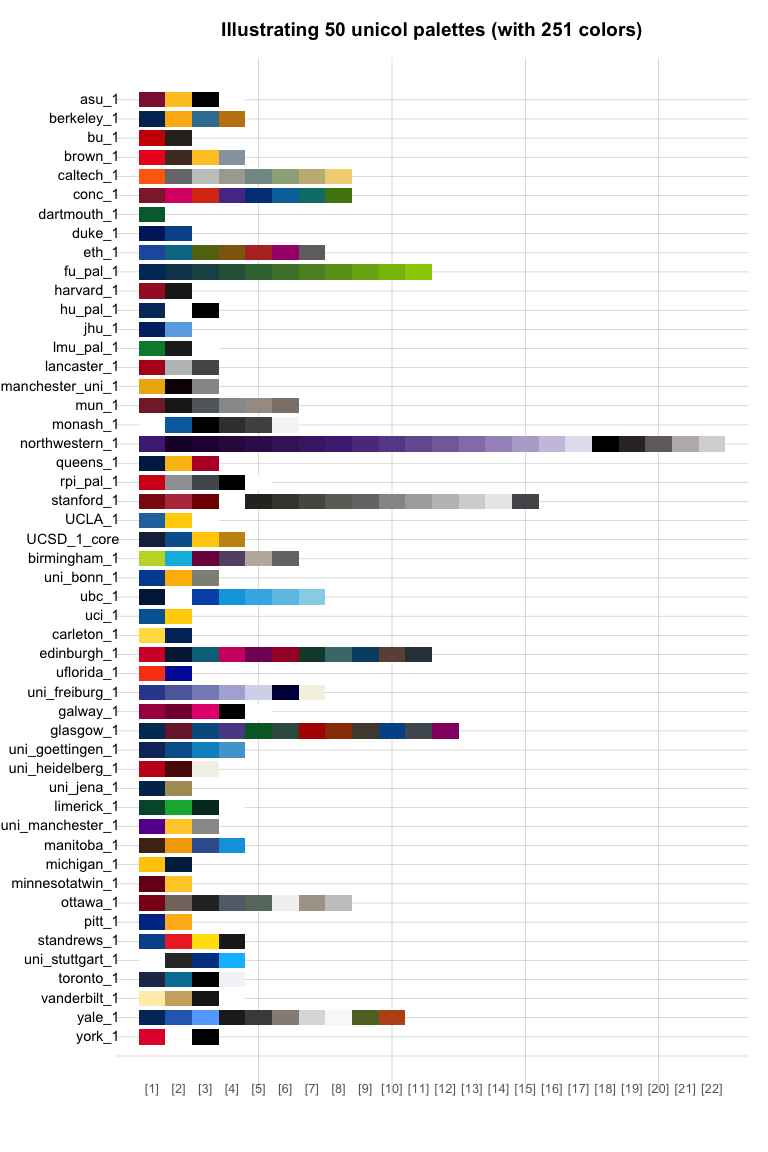
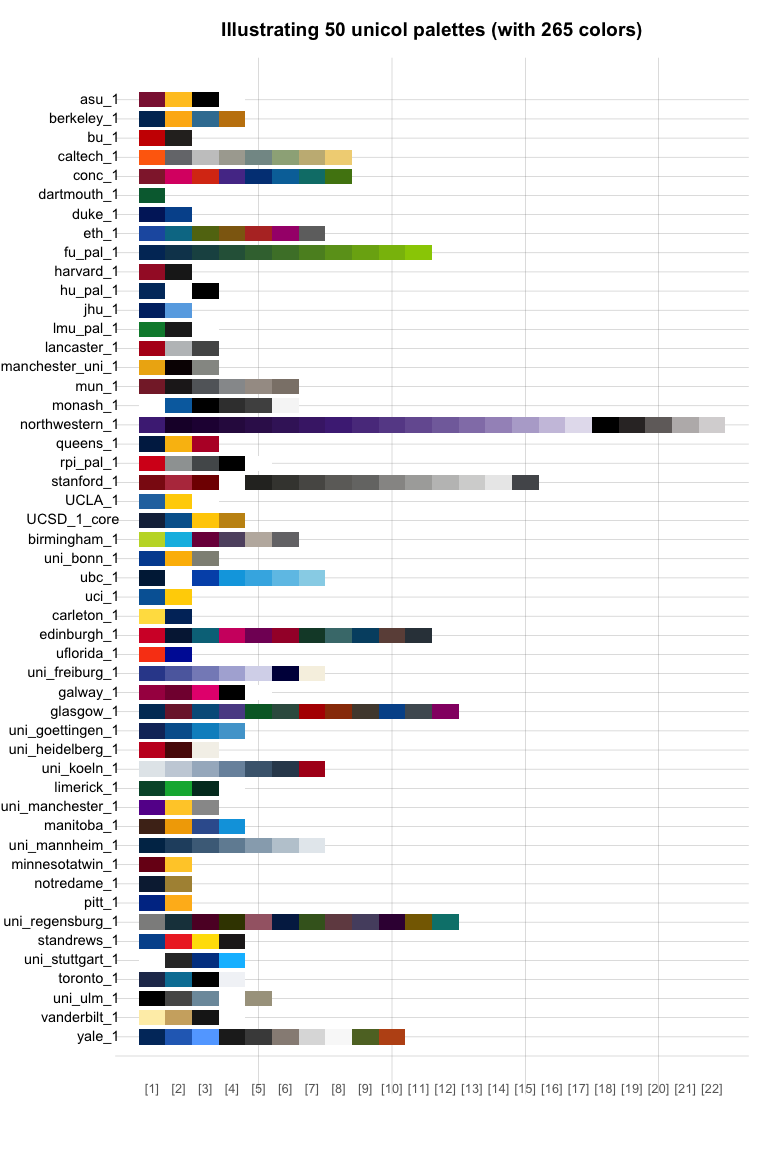
update README

Changed region(s): [[0.0, 0.125, 0.9375, 0.8125], [0.0625, 0.8438, 0.5312, 0.9062], [0.7188, 0.0, 0.75, 0.0312]]

diff --git a/README.md b/README.md
@@ -79,8 +79,8 @@ library(unikn)   # for color functions
 
 ## Contents
 
-The **unicol** package currently provides **202 color palettes** from
-**86 institutions**.
+The **unicol** package currently provides **204 color palettes** from
+**87 institutions**.
 
 <!-- **Table\ 1** provides an overview of all color palettes:  -->
 
@@ -92,18 +92,18 @@ palettes and institutions.)
 
 ### Examples of color palettes
 
-<!-- The **unicol** package currently contains **202\ color palettes** from **86\ institutions**.  -->
+<!-- The **unicol** package currently contains **204\ color palettes** from **87\ institutions**.  -->
 <!-- Example 1: Random pals (from vignette color_pals.Rmd): -->
 <!-- Show as a table: -->
 <!-- Show as a figure: -->
 
-**Figure 1** illustrates 50 random color palettes (with 251 colors):
+**Figure 1** illustrates 50 random color palettes (with 265 colors):
 
 <div class="figure" style="text-align: center">
 
-<img src="inst/pix/README-unicol-pals-example-1-figure-1.png" alt="Figure 1: A sample of 50 unicol palettes (containing 251 colors)." width="90%" />
+<img src="inst/pix/README-unicol-pals-example-1-figure-1.png" alt="Figure 1: A sample of 50 unicol palettes (containing 265 colors)." width="90%" />
 <p class="caption">
-Figure 1: A sample of 50 unicol palettes (containing 251 colors).
+Figure 1: A sample of 50 unicol palettes (containing 265 colors).
 </p>
 
 </div>
